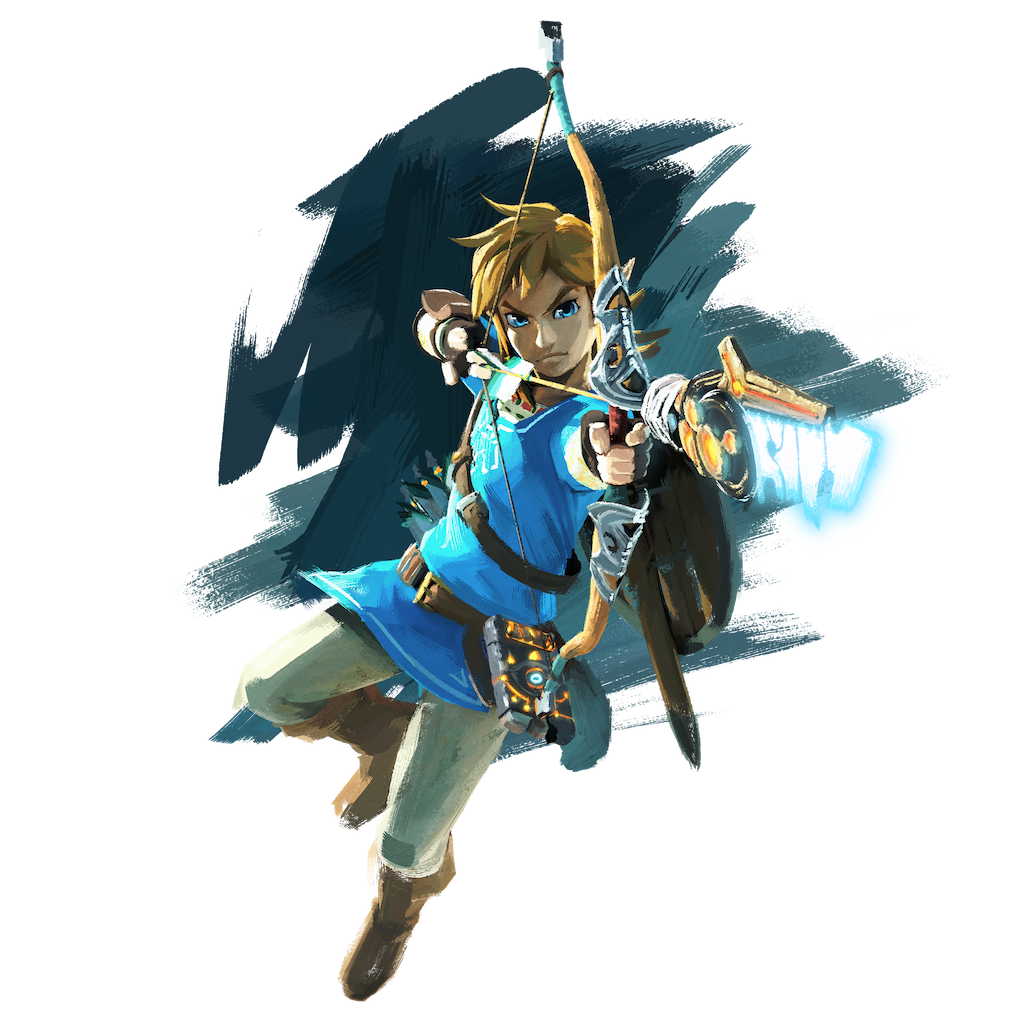
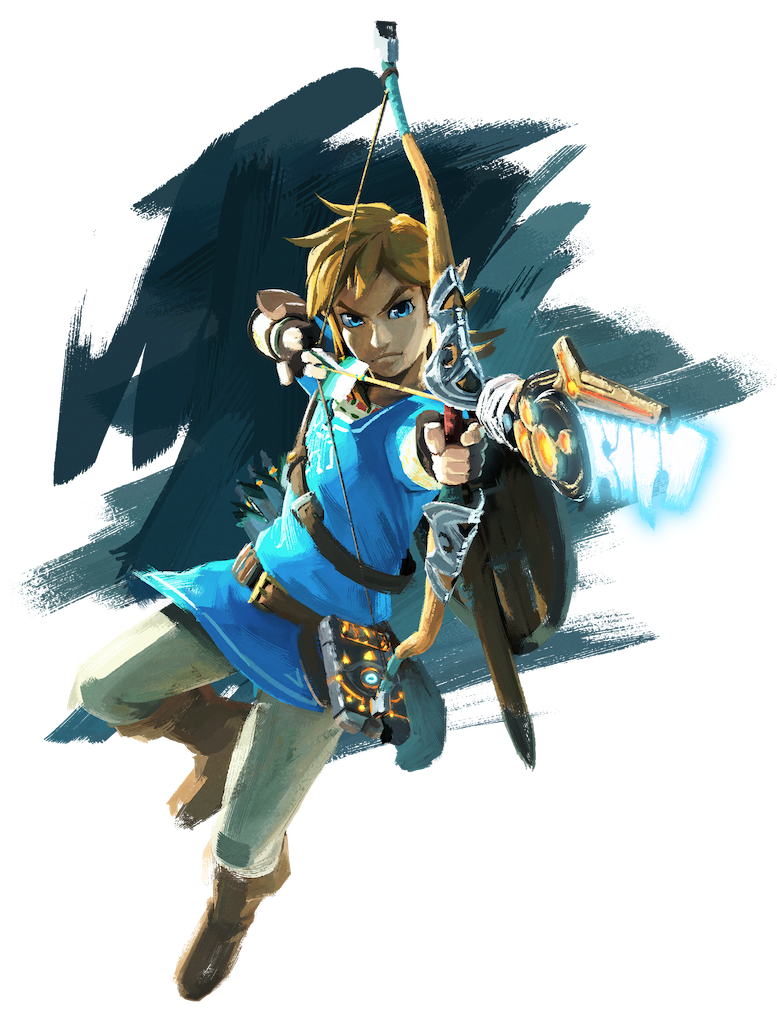
Fixing bg

diff --git a/background.html b/background.html
@@ -34,15 +34,13 @@
             <div><img src="/imgs/bg_chara/bg_text.png" alt="title"></div>
             <div><img src="/imgs/bg_chara/bg_scroll.png" alt="title"></div>
 
-            <div class="charas">
-                
-                    <div class="chara_bg"></div>
+            <div class="charas move_bg">
+                <div class="chara_bg"></div>
                     <div class="chars__chara-introduce">
                         <img width="250px" src="/imgs/bg_chara/bg_chara1_name.png">
                         <img width="350px" src="/imgs/bg_chara/bg_chara1_text.png">
-                        <img class="chara" src="/imgs/bg_chara/chara.png">
-                    </div>
-                   
+                        <div class="chara1"><img src="/imgs/bg_chara/chara.png"></div>
+                    </div> 
             </div>
 
             </div>

diff --git a/css/screens/background.css b/css/screens/background.css
@@ -11,29 +11,31 @@
 
 .bg-contents{
     text-align: center;
+    
 }
-
+.charas{
+    position: relative;
+    width: 100%;
+    height: 100vh;
+    margin: 0 auto;
+}
 .chara_bg{
-    background-color: rgba(0, 0, 0, 0.5);
-    height: 260px;
+    position: absolute;
+    height: 280px;
+    width: 100%;
+    background-color: rgba(0, 0, 0, 0.38);
     border-top: 2px solid #c6ad7b;
     border-bottom: 2px solid #c6ad7b;
-    margin-bottom: 800px;
+    
 }
 
 
 
 .chars__chara-introduce{
-    display: flex;
-    flex-direction: column;
-    align-items: center;
+    position: absolute;
+    width: 960px;
+    height: 100vh;
+    margin: 0 auto;
     
 }
 
-.chars__chara-introduce img:first-child{
-    margin-right: 50px;
-}
-
-.chara{
-    
-}
